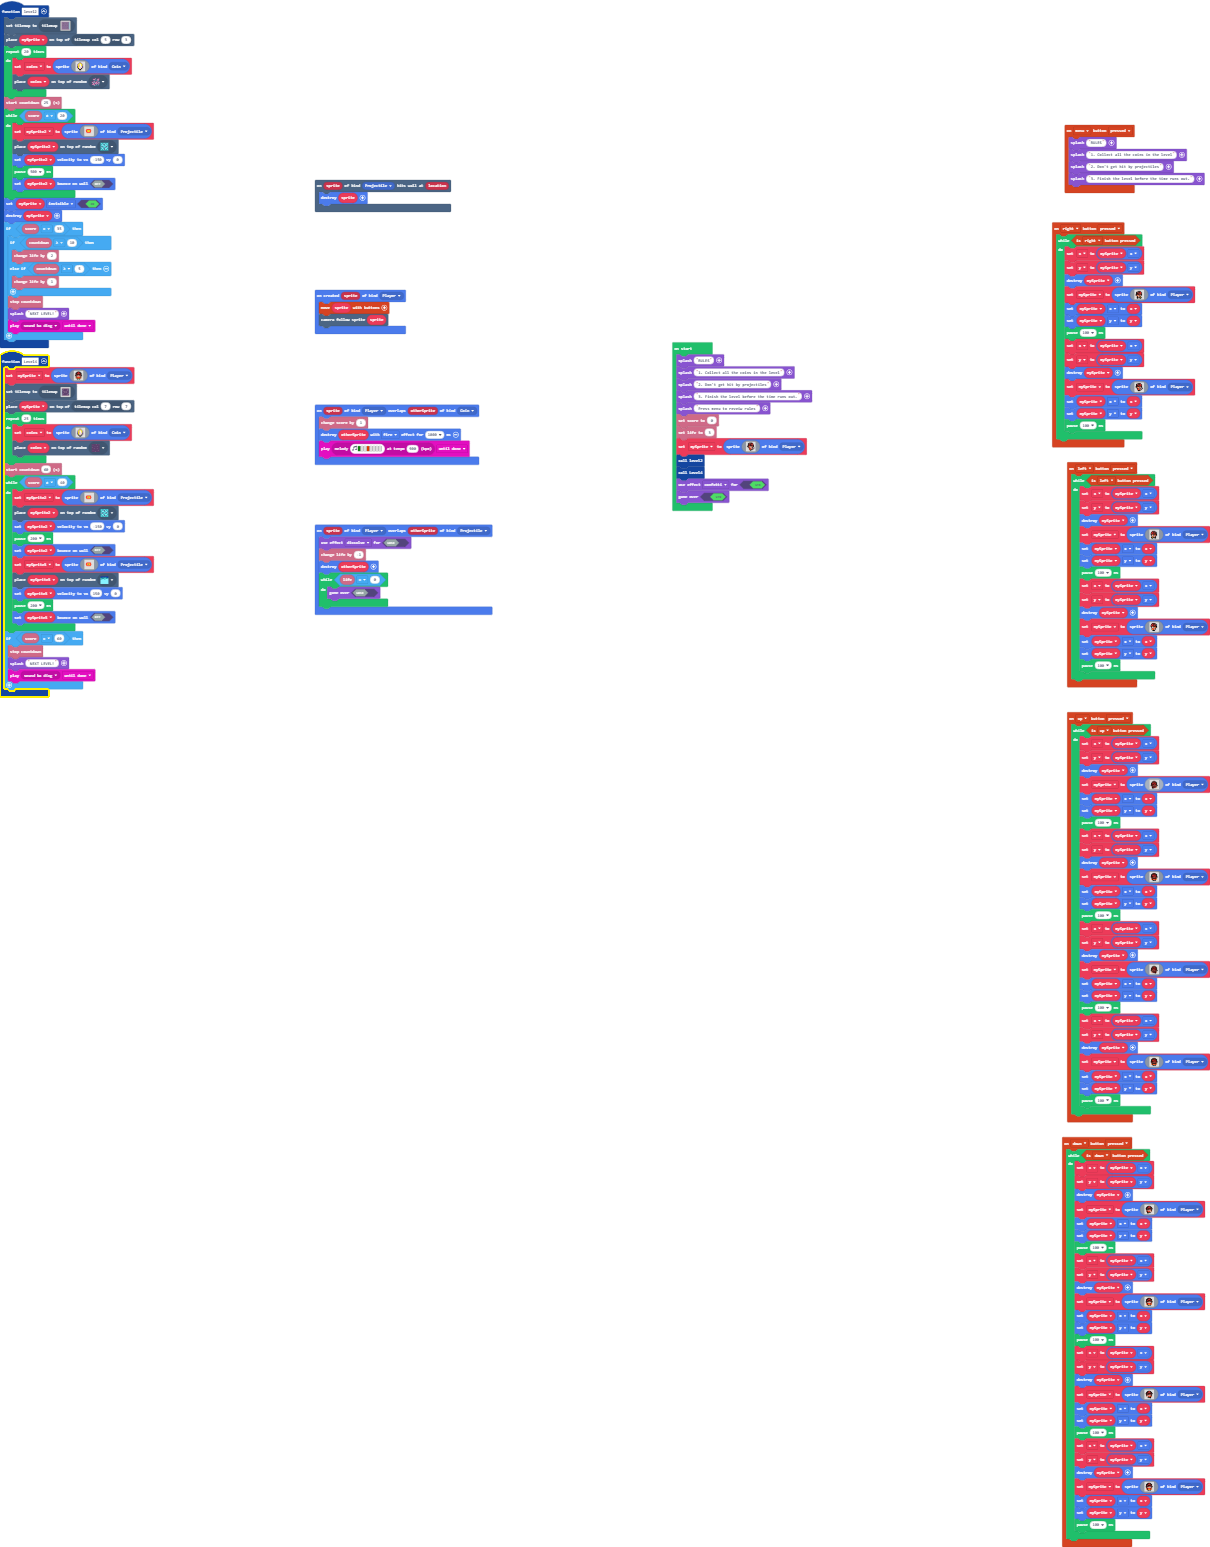
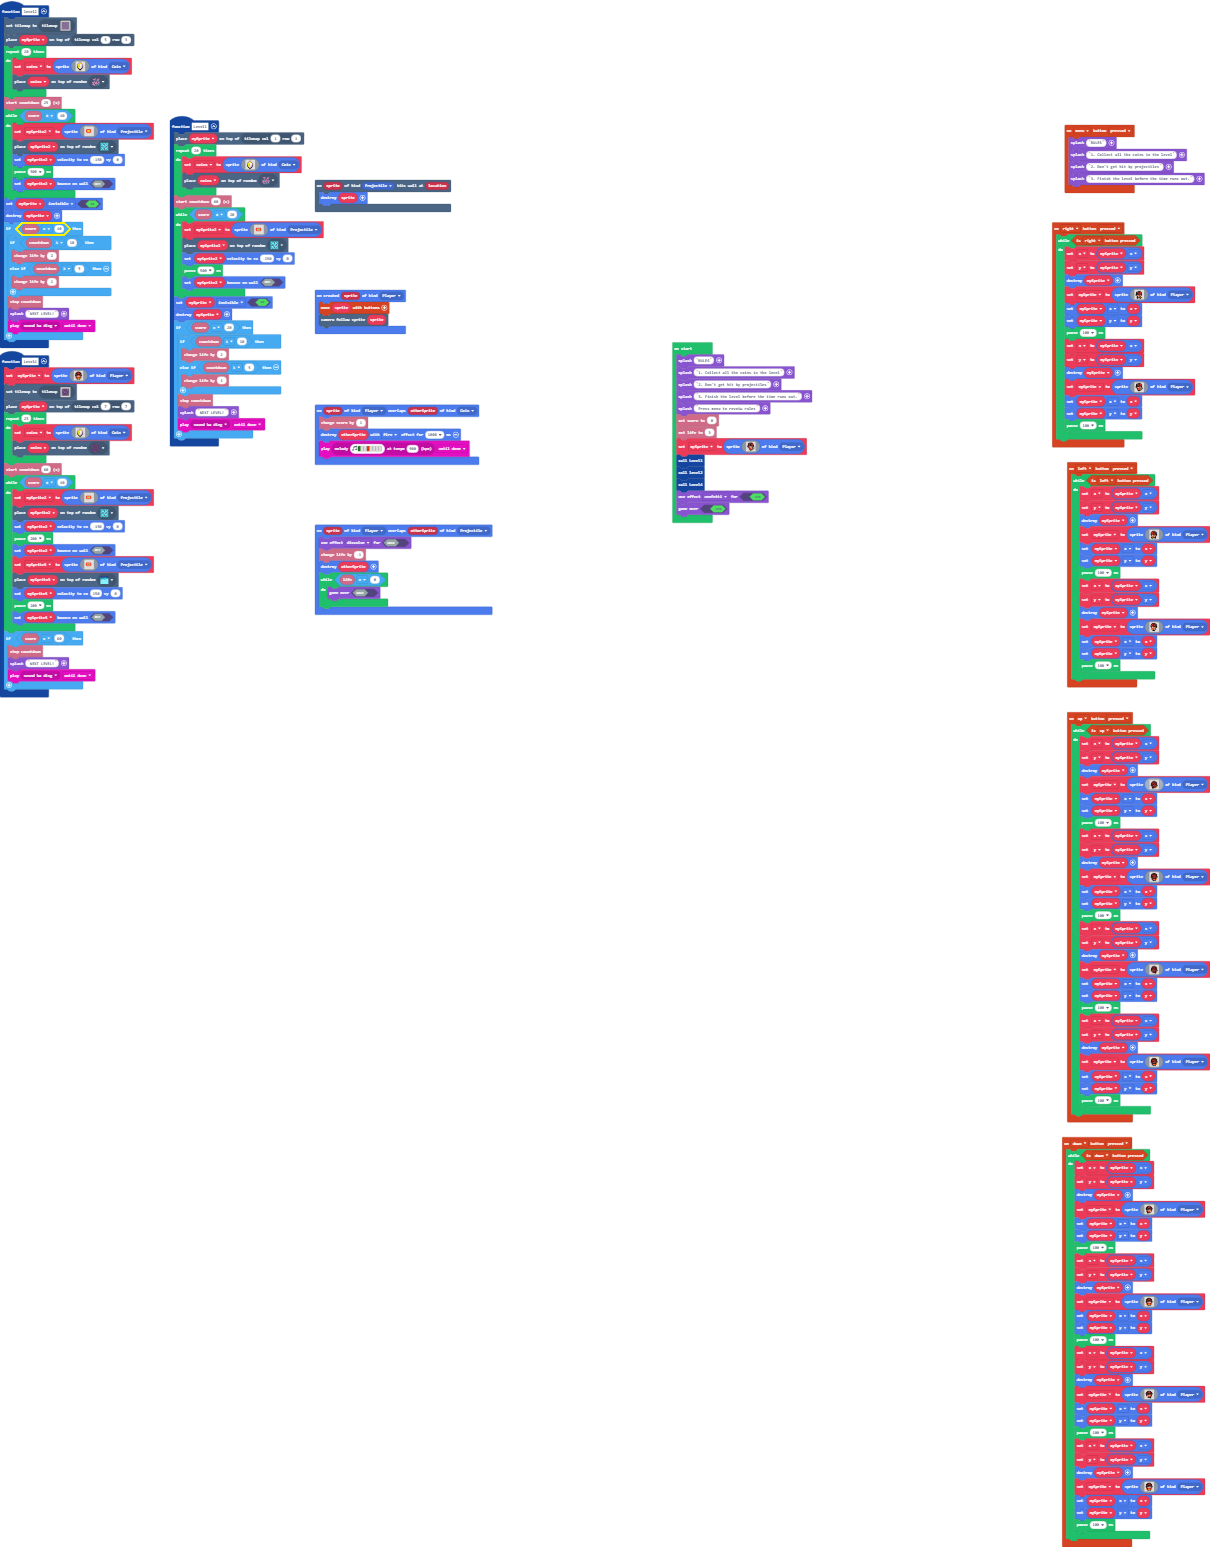
Update pxt.json, main.blocks, main.ts

diff --git a/main.ts b/main.ts
@@ -159,9 +159,8 @@ controller.left.onEvent(ControllerButtonEvent.Pressed, function () {
         pause(100)
     }
 })
-function level2 () {
-    tiles.setCurrentTilemap(tilemap`level6`)
-    tiles.placeOnTile(mySprite, tiles.getTileLocation(5, 3))
+function Level1 () {
+    tiles.placeOnTile(mySprite, tiles.getTileLocation(1, 1))
     for (let index = 0; index < 20; index++) {
         coins = sprites.create(img`
             . . . b b . . . 
@@ -175,7 +174,7 @@ function level2 () {
             `, SpriteKind.Coin)
         tiles.placeOnRandomTile(coins, sprites.builtin.coral1)
     }
-    info.startCountdown(25)
+    info.startCountdown(60)
     while (info.score() != 20) {
         mySprite2 = sprites.create(img`
             . . . . . . . . . . . . . . . . 
@@ -202,7 +201,61 @@ function level2 () {
     }
     mySprite.setFlag(SpriteFlag.Invisible, true)
     sprites.destroy(mySprite)
-    if (info.score() == 35) {
+    if (info.score() == 20) {
+        if (info.countdown() >= 10) {
+            info.changeLifeBy(2)
+        } else if (info.countdown() >= 5) {
+            info.changeLifeBy(1)
+        }
+        info.stopCountdown()
+        game.splash("NEXT LEVEL!")
+        music.play(music.melodyPlayable(music.baDing), music.PlaybackMode.UntilDone)
+    }
+}
+function level2 () {
+    tiles.setCurrentTilemap(tilemap`level6`)
+    tiles.placeOnTile(mySprite, tiles.getTileLocation(5, 3))
+    for (let index = 0; index < 20; index++) {
+        coins = sprites.create(img`
+            . . . b b . . . 
+            . . b 5 5 b . . 
+            . b 5 d 1 5 b . 
+            . b 5 3 1 5 b . 
+            . c 5 3 1 d c . 
+            . c 5 1 d d c . 
+            . . f d d f . . 
+            . . . f f . . . 
+            `, SpriteKind.Coin)
+        tiles.placeOnRandomTile(coins, sprites.builtin.coral1)
+    }
+    info.startCountdown(25)
+    while (info.score() != 40) {
+        mySprite2 = sprites.create(img`
+            . . . . . . . . . . . . . . . . 
+            . . . . . . . . . . . . . . . . 
+            . . . . . . . . . . . . . . . . 
+            . . . . . . . . . . . . . . . . 
+            . . . 2 2 2 2 2 2 2 2 . . . . . 
+            . . 2 2 4 4 4 4 4 4 2 2 . . . . 
+            . . 2 4 4 5 5 5 5 4 4 2 . . . . 
+            . 2 2 4 4 5 6 6 5 4 4 2 2 . . . 
+            . . 2 4 4 5 5 5 5 4 4 2 . . . . 
+            . . 2 2 4 4 4 4 4 4 2 2 . . . . 
+            . . . 2 2 2 2 2 2 2 2 . . . . . 
+            . . . . . . . . . . . . . . . . 
+            . . . . . . . . . . . . . . . . 
+            . . . . . . . . . . . . . . . . 
+            . . . . . . . . . . . . . . . . 
+            . . . . . . . . . . . . . . . . 
+            `, SpriteKind.Projectile)
+        tiles.placeOnRandomTile(mySprite2, sprites.dungeon.collectibleInsignia)
+        mySprite2.setVelocity(-150, 0)
+        pause(500)
+        mySprite2.setBounceOnWall(false)
+    }
+    mySprite.setFlag(SpriteFlag.Invisible, true)
+    sprites.destroy(mySprite)
+    if (info.score() == 40) {
         if (info.countdown() >= 10) {
             info.changeLifeBy(2)
         } else if (info.countdown() >= 5) {
@@ -504,6 +557,7 @@ mySprite = sprites.create(img`
     . . . . . f f f f f f . . . . . 
     . . . . . . f f f . . . . . . . 
     `, SpriteKind.Player)
+Level1()
 level2()
 Level4()
 game.setGameOverEffect(true, effects.confetti)
